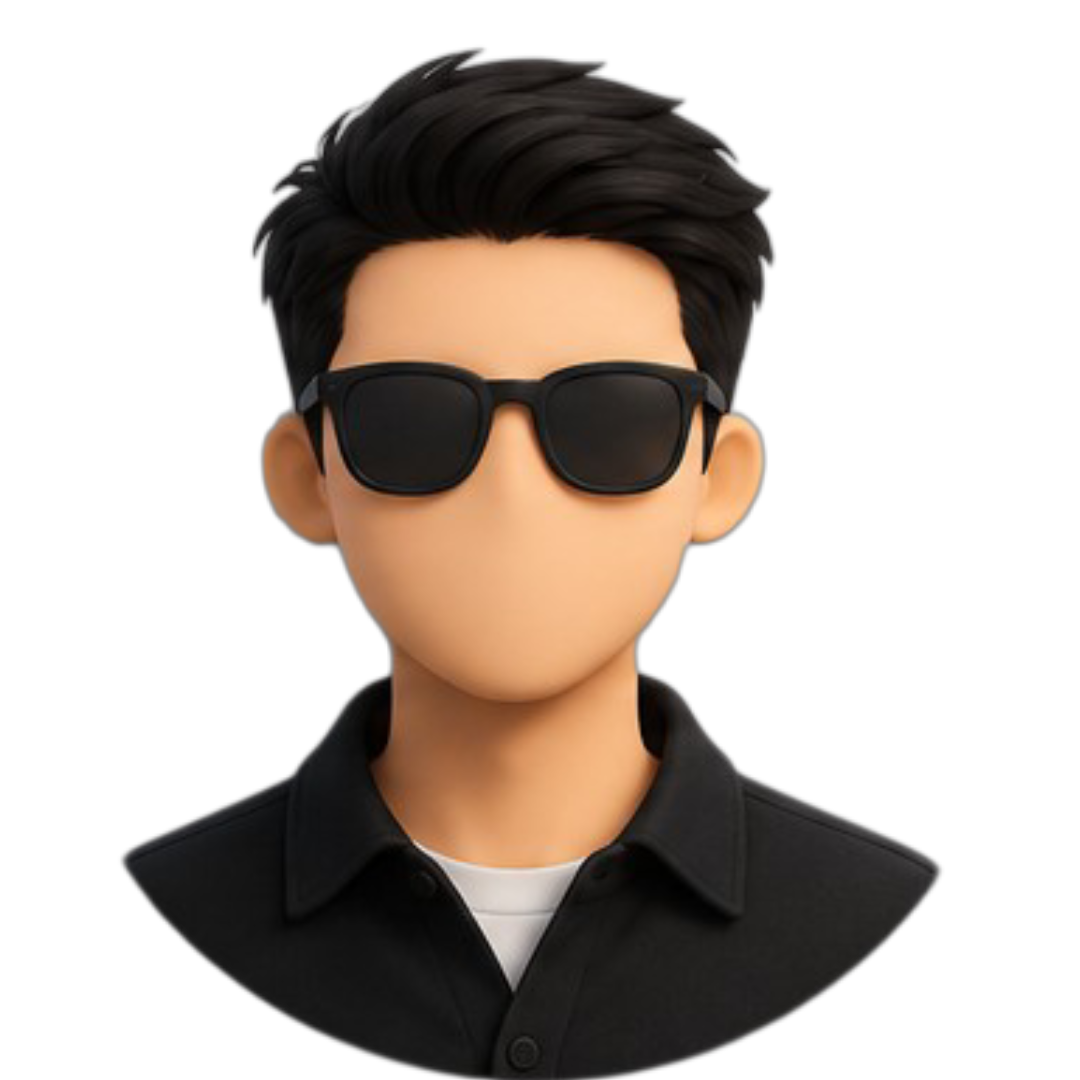
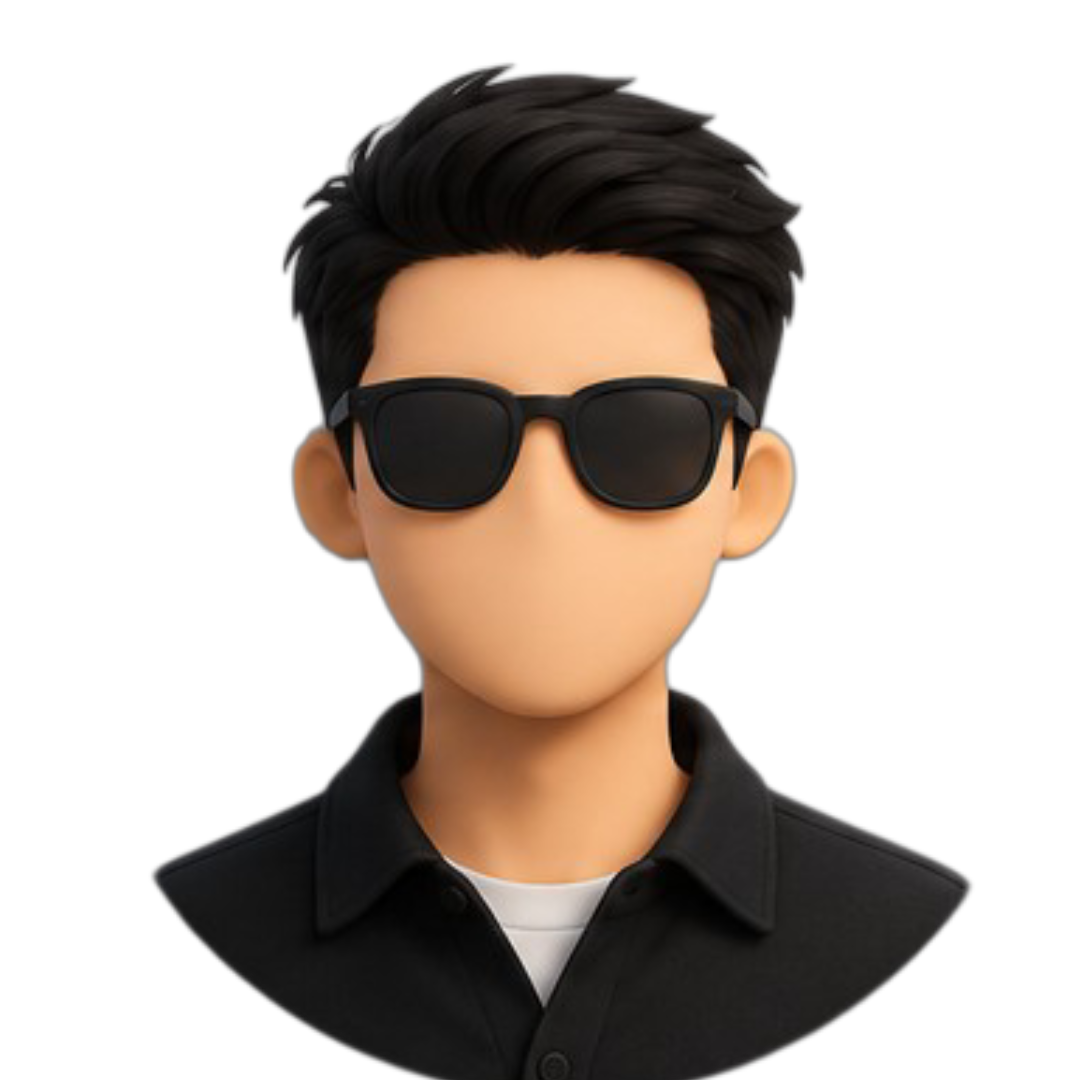
kenapa modalnya kok ga ada tombol silang untuk menutup

diff --git a/src/app/dashboard/settings/page.tsx b/src/app/dashboard/settings/page.tsx
@@ -26,6 +26,7 @@ import {
   DialogHeader,
   DialogTitle,
   DialogTrigger,
+  DialogClose,
 } from "@/components/ui/dialog";
 import { 
   User, 
@@ -40,7 +41,8 @@ import {
   KeyRound,
   Check,
   Camera,
-  Layers
+  Layers,
+  X
 } from "lucide-react";
 import { cn } from "@/lib/utils";
 
@@ -270,13 +272,18 @@ export default function SettingsPage() {
                           </button>
                         </DialogTrigger>
                         <DialogContent className="max-w-2xl w-[95vw] max-h-[90vh] overflow-y-auto rounded-3xl border-border bg-background p-0 scrollbar-thin scrollbar-thumb-border">
-                          <div className="sticky top-0 z-20 bg-background/80 backdrop-blur-md border-b border-border p-6">
-                            <DialogHeader>
-                              <DialogTitle className="font-black text-xl">Kustomisasi Avatar</DialogTitle>
-                              <DialogDescription className="font-bold">
-                                Sesuaikan karakter dan latar belakang profil Anda.
-                              </DialogDescription>
-                            </DialogHeader>
+                          <div className="sticky top-0 z-30 bg-background/80 backdrop-blur-md border-b border-border p-6">
+                            <div className="flex items-start justify-between">
+                              <DialogHeader className="pr-12">
+                                <DialogTitle className="font-black text-xl">Kustomisasi Avatar</DialogTitle>
+                                <DialogDescription className="font-bold">
+                                  Sesuaikan karakter dan latar belakang profil Anda.
+                                </DialogDescription>
+                              </DialogHeader>
+                              <DialogClose className="absolute right-4 top-4 p-2 rounded-full hover:bg-muted/50 transition-colors">
+                                <X className="h-6 w-6" />
+                              </DialogClose>
+                            </div>
 
                             {/* Live Preview Inside Modal */}
                             <div className="mt-6 flex flex-col items-center justify-center py-6 bg-muted/20 rounded-2xl border border-dashed border-border overflow-hidden relative">
@@ -379,7 +386,7 @@ export default function SettingsPage() {
                             </div>
                           </div>
 
-                          <div className="sticky bottom-0 bg-background border-t border-border p-4">
+                          <div className="sticky bottom-0 z-30 bg-background border-t border-border p-4">
                             <Button 
                               onClick={() => setIsAvatarModalOpen(false)}
                               className="w-full h-11 rounded-xl bg-primary text-primary-foreground font-black uppercase tracking-widest text-xs"
